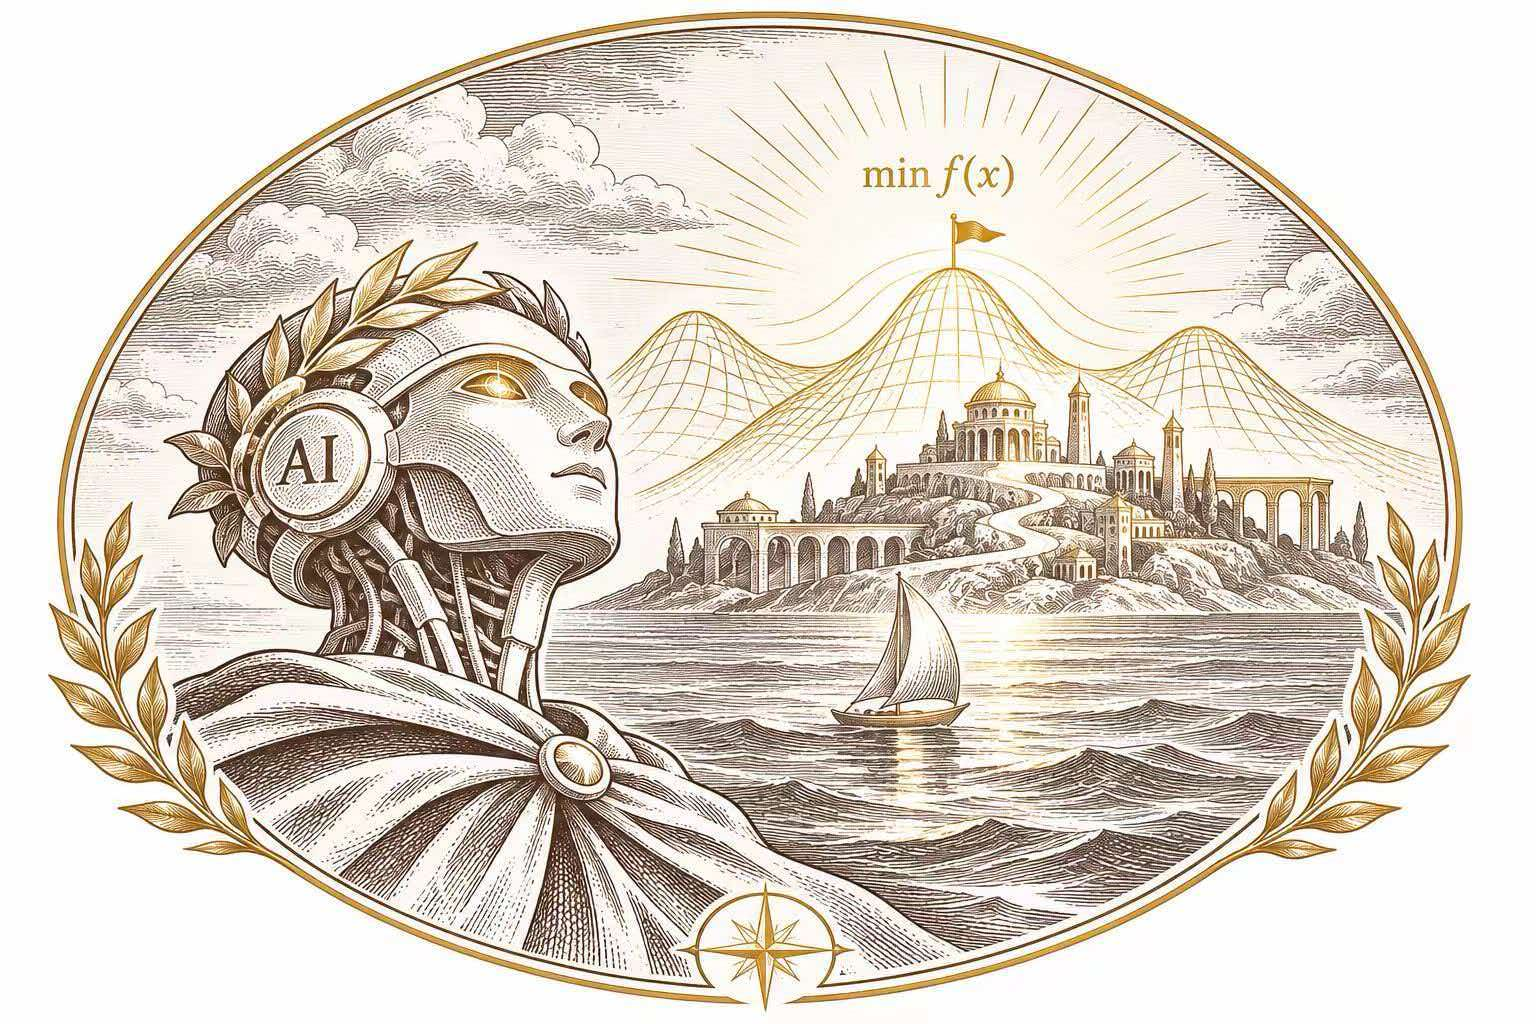
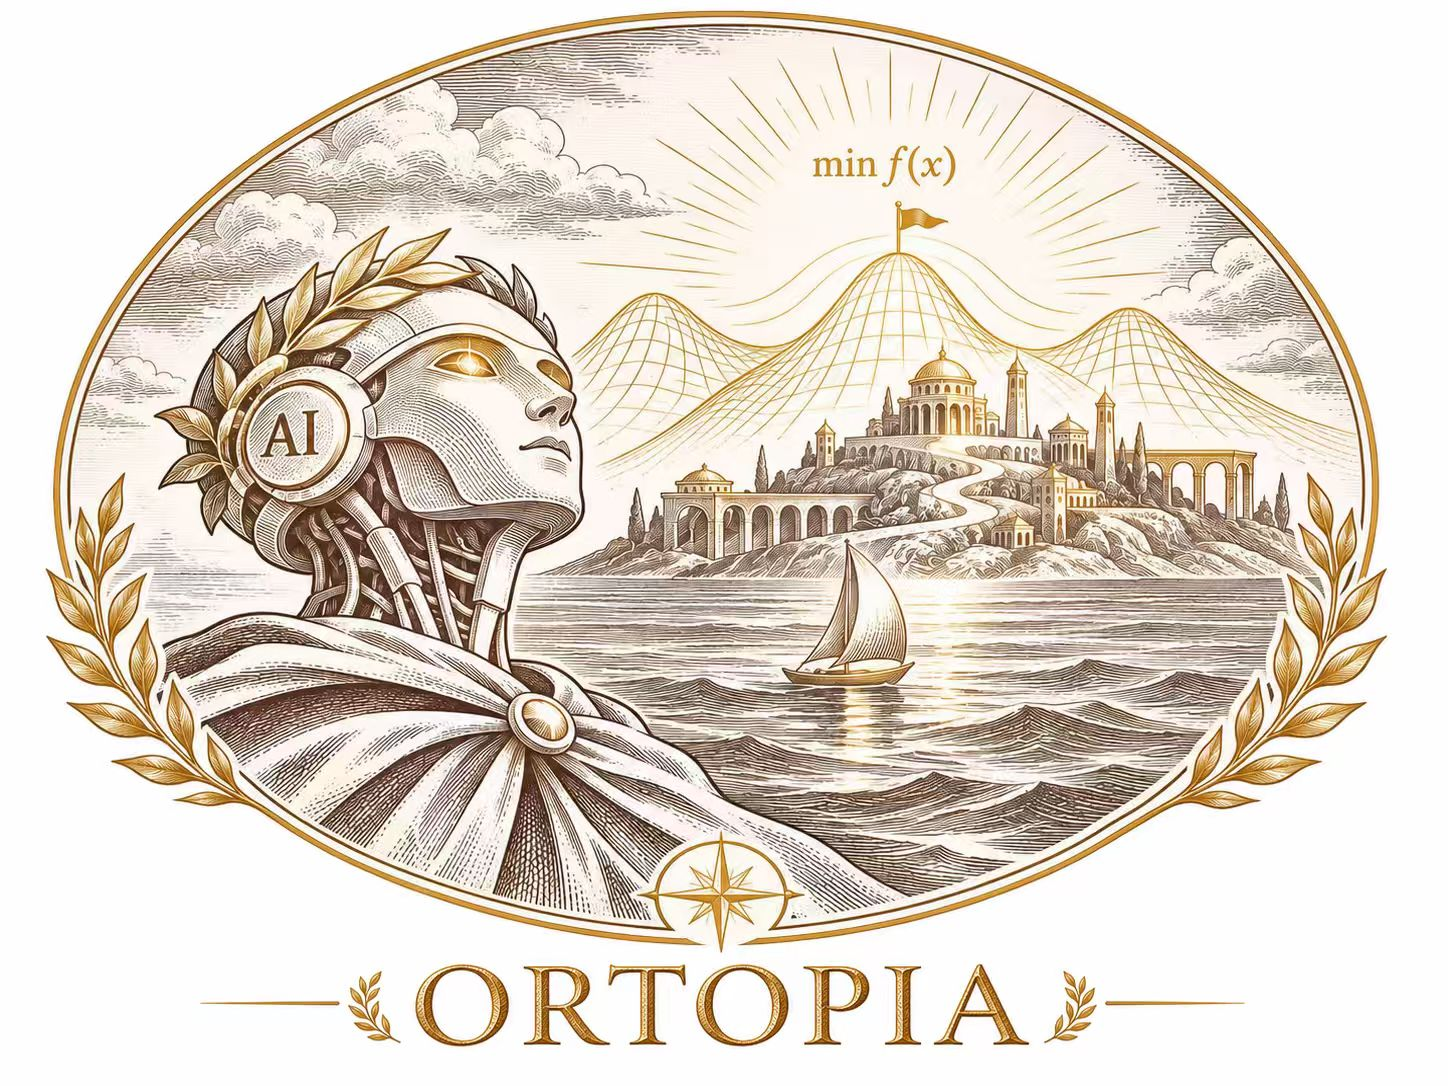
Update public ORtopia website
ORtopia-Publisher: private-site-v1

diff --git a/index.html b/index.html
@@ -99,7 +99,7 @@
 </head>
 <body>
   <main>
-    <img class="cover" src="ortopia-cover.jpg" width="1536" height="1024" fetchpriority="high" alt="A laurel-crowned robot looks across the sea toward a city beneath an optimization landscape.">
+    <img class="cover" src="ortopia-cover.jpg?v=0eb1e1f9" width="1448" height="1086" fetchpriority="high" alt="A laurel-crowned robot looks across the sea toward a city beneath an optimization landscape, with ORTOPIA beneath the oval.">
     <h1>A Utopia for <em>AI-Native</em><br> Operations Research</h1>
     <nav aria-label="ORtopia">
       <a href="dataset/">Dataset<span class="arrow" aria-hidden="true"></span></a>
